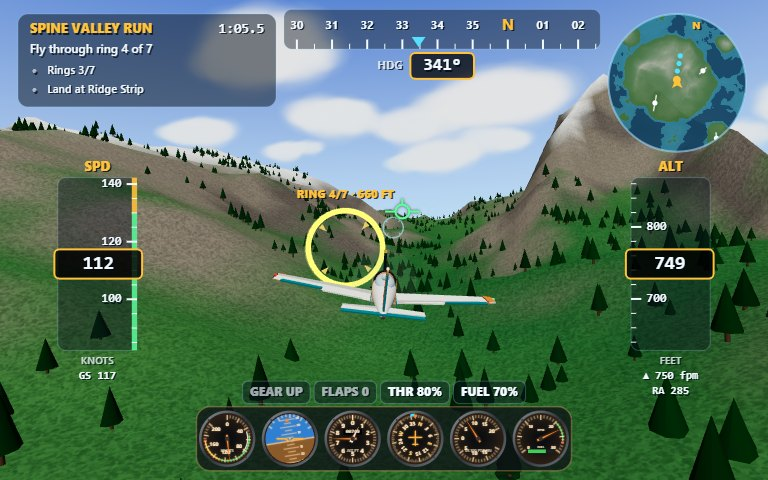
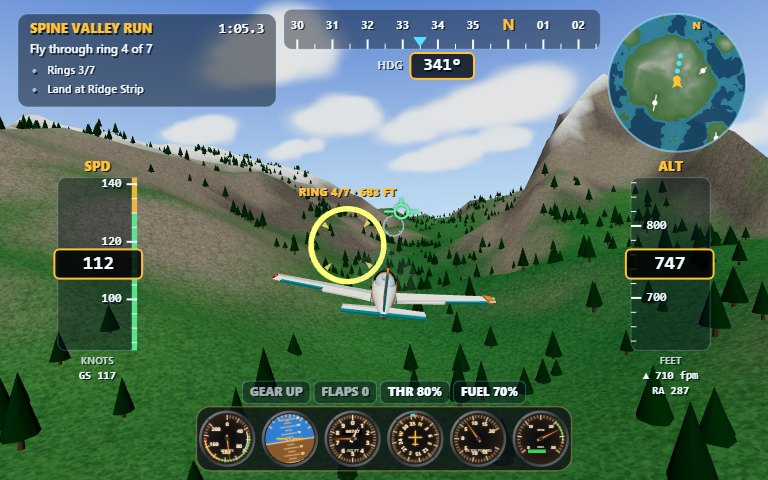
Last circuit ring sits just short of the threshold so the runway shows through it; new approach and cockpit shots

diff --git a/game/src/shots.js b/game/src/shots.js
@@ -25,8 +25,8 @@ const SETUPS = {
   approach(game) {
     game.launch('circuit');
     const q = new URLSearchParams(location.search);
-    const u = Number(q.get('u') || -985), h = Number(q.get('h') || 47);
-    if (u > -800) skipTo(game, 2, 0, 188.6); else skipTo(game, 1, 5, 171.4);
+    const u = Number(q.get('u') || -860), h = Number(q.get('h') || 39);
+    if (u > -690) skipTo(game, 2, 0, 188.6); else skipTo(game, 1, 5, 171.4);
     placeOnApproach(game, 'harbor', u, -3, h, 36, -2);
     Object.assign(game.input.controls, { throttle: 0.28, flaps: 2, gearDown: true, pitch: -0.35 });
     game.fm.gearDown = true; game.aircraft.gearT = 1;
@@ -36,7 +36,7 @@ const SETUPS = {
   cockpit(game) {
     game.launch('circuit');
     skipTo(game, 1, 5, 171.4);
-    placeOnApproach(game, 'harbor', -1140, 3, 56, 36, -3);
+    placeOnApproach(game, 'harbor', -930, 2, 45, 36, -3);
     Object.assign(game.input.controls, { throttle: 0.25, flaps: 2, gearDown: true, pitch: -0.35 });
     game.fm.gearDown = true; game.aircraft.gearT = 1;
     game.fm.fuel *= 0.78;

diff --git a/game/src/missions.js b/game/src/missions.js
@@ -32,7 +32,7 @@ export function buildMissions() {
         { type: 'takeoff' },
         { type: 'rings', points: [
           fieldRing('harbor', 1000, 0, 120), fieldRing('harbor', 1450, -650, 210), fieldRing('harbor', 500, -1150, 260),
-          fieldRing('harbor', -700, -1150, 240), fieldRing('harbor', -1900, -420, 150), fieldRing('harbor', -800, 0, 40, 24),
+          fieldRing('harbor', -700, -1150, 240), fieldRing('harbor', -1900, -420, 150), fieldRing('harbor', -690, 0, 31, 24),
         ] },
         { type: 'land', field: 'harbor' },
       ],
